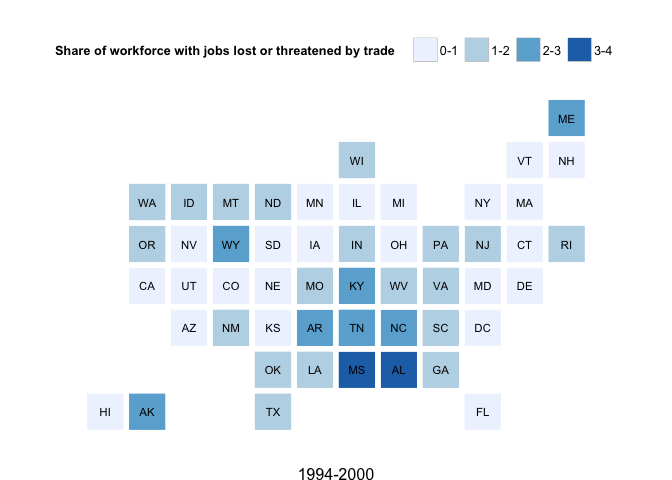
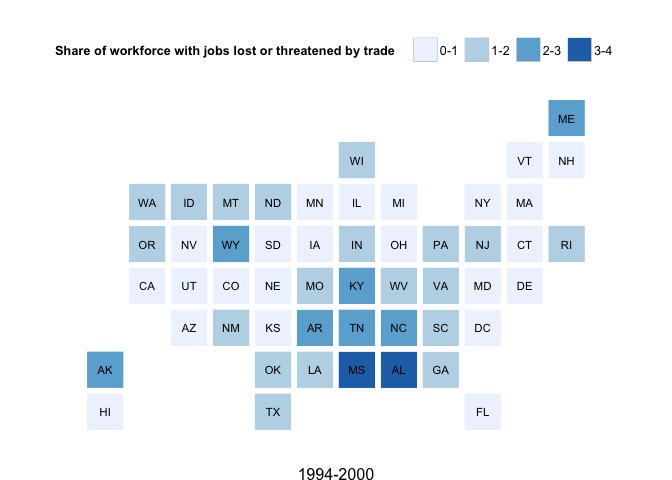
statebins_manual

Changed region(s): [[0.1875, 0.8125, 0.25, 0.9062], [0.125, 0.7188, 0.1875, 0.8125]]

diff --git a/README.md b/README.md
@@ -1,11 +1,12 @@
 <!-- output: html_document -->
 
-statebins is an alternative to choropleth maps for USA States
+statebins - U.S. State Cartogram Heatmaps in R; an alternative to choropleth maps for USA States
 
 The following functions are implemented:
 
 -   `statebins` - creates "statebin" charts in the style of <http://bit.ly/statebins> - This version uses discrete `RColorBrewer` scales, binned by the "breaks" parameter.
 -   `statebins_continuous` - creates "statebin" charts in the style of <http://bit.ly/statebins> - This version uses a continuous scale based on `RColorBrewer` scales (passing in a 6 element `RColorBrewer` palette to `scale_fill_gradientn`).
+-   `statebins_manual` - creates "statebin" charts using manually specified colors in a column
 
 ### TODO
 
@@ -14,6 +15,7 @@ The following functions are implemented:
 
 ### News
 
+-   Version `1.1.0` released - `statebins_manual()` for manual placement of colors and moving of AK in support of a [pull request](https://github.com/hrbrmstr/statebins/pull/1) by [hansthompson](https://github.com/hansthompson)
 -   Version `1.0.0` released
 
 ### Installation
@@ -76,6 +78,19 @@ gg3
 ```
 
 ![plot of chunk unnamed-chunk-3](./README_files/figure-markdown_github/unnamed-chunk-33.png)
+
+``` {.r}
+# manual - perhaps good for elections?
+
+library(httr)
+library(dplyr)
+election_2012 <- GET("https://raw.githubusercontent.com/hrbrmstr/statebins/master/tmp/election2012.csv")
+results <- read.csv(textConnection(content(election_2012, as="text")), header=TRUE, stringsAsFactors=FALSE)
+results <- results %>% mutate(color=ifelse(is.na(Obama), "#2166ac", "#b2182b")) %>% select(state, color)
+results %>% statebins_manual(font_size=4, text_color = "white", labels=c("Romney", "Obama"), legend_position="right", legend_title="Winner")
+```
+
+![plot of chunk unnamed-chunk-3](./README_files/figure-markdown_github/unnamed-chunk-34.png)
 
 ``` {.r}
 # or, more like the one in the WaPo article; i might be picking the wrong columns here. it's just for an example
@@ -175,7 +190,7 @@ library(testthat)
 date()
 ```
 
-    ## [1] "Tue Aug 26 17:53:56 2014"
+    ## [1] "Fri Aug 29 12:38:53 2014"
 
 ``` {.r}
 test_dir("tests/")
